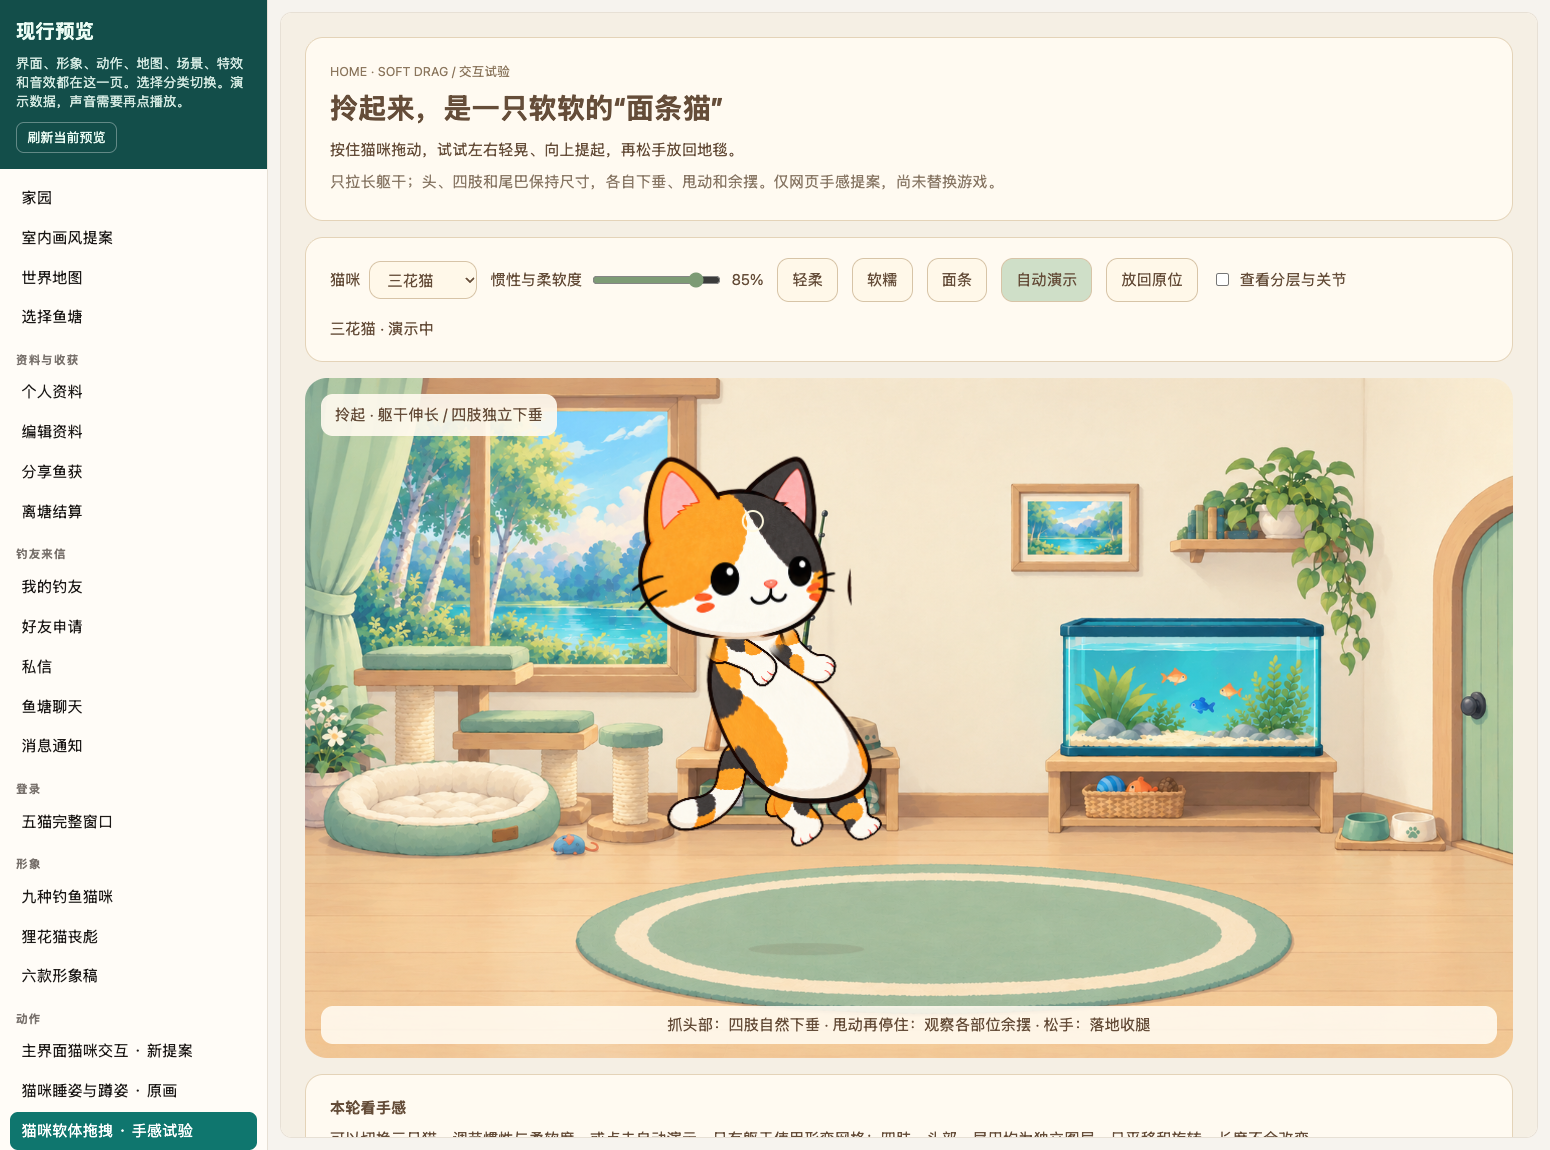
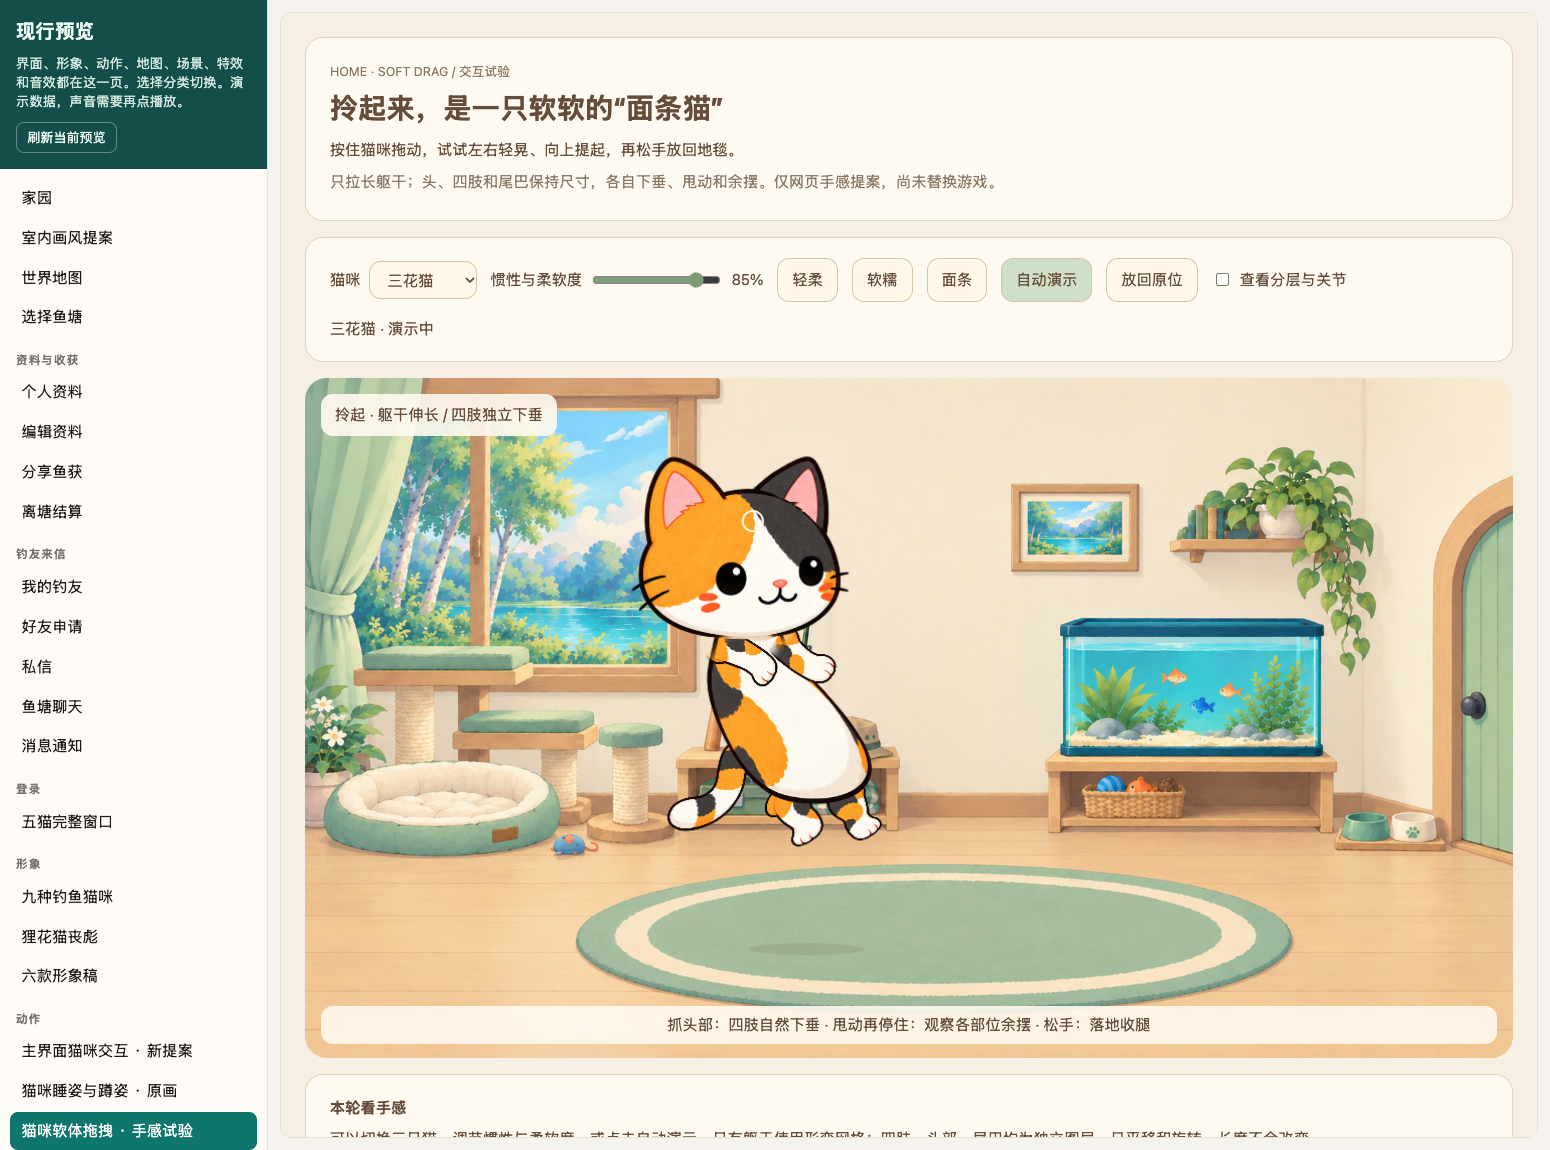
## 2026-10-31 — 软体拖拽拆层与视觉修正

Changed region(s): [[0.4026, 0.3957, 0.5574, 0.5478]]

diff --git a/docs/美术/家园/soft-drag-study-2026-10-31/drag-v2.js b/docs/美术/家园/soft-drag-study-2026-10-31/drag-v2.js
@@ -45,5 +45,5 @@ $('demo').onclick=()=>{if(!state.ready)return;reset();state.demo=0;const hit={id
 function demo(dt){if(state.demo===null)return;state.demo+=dt;const t=state.demo;if(t<1){const f=t*t*(3-2*t);state.cat.move(state.demoOrigin[0],state.demoOrigin[1]*(1-f)+160*f);}else if(t<4.5){const q=t-1;state.cat.move(630+Math.sin(q*3.4)*205,160+Math.sin(q*2.6)*25);}else if(t<6){state.cat.move(630+Math.sin(3.5*3.4)*205,160+Math.sin(3.5*2.6)*25);}else{state.cat.release();state.demo=null;}}
 function interrupt(){state.demo=null;release();accumulator=0;last=performance.now();}document.addEventListener('visibilitychange',interrupt);window.addEventListener('blur',interrupt);canvas.addEventListener('webglcontextlost',e=>{e.preventDefault();state.paused=true;release();$('status').textContent='图形中断，请刷新预览';});
 function tick(now){const dt=Math.min((now-last)/1000,.06);last=now;if(state.ready&&!document.hidden&&!state.paused){accumulator+=dt;while(accumulator>=1/120){demo(1/120);state.cat.step(1/120);accumulator-=1/120;}render();}requestAnimationFrame(tick);}
-(async()=>{try{initGL();await Promise.all(Object.keys(names).map(async k=>{art[k]=Object.fromEntries(await Promise.all(['torso',...Object.keys(partsSpec)].map(async id=>[id,makePart(await load(`layers-v2/${k}/${id}.png`))])));}));state.cat.soft=Number($('softness').value)/100;state.ready=true;render();requestAnimationFrame(tick);}catch(e){$('status').textContent=e.message;}})();
+(async()=>{try{initGL();await Promise.all(Object.keys(names).map(async k=>{art[k]=Object.fromEntries(await Promise.all(['torso',...Object.keys(partsSpec)].map(async id=>[id,makePart(await load(`layers-v2/${k}/${id}.png?v=joint-contact-2`))])));}));state.cat.soft=Number($('softness').value)/100;state.ready=true;render();requestAnimationFrame(tick);}catch(e){$('status').textContent=e.message;}})();
 window.softDragStudy={state,render,reset,pick,vertices,partsSpec};

diff --git a/CHANGELOG.md b/CHANGELOG.md
@@ -1,3 +1,9 @@
+## 2026-10-31 — 软体拖拽拆层与视觉修正
+
+- 总预览 `#home-soft-drag` 改为三只猫各七张独立部件；仅躯干伸长，头、四肢与尾巴保持尺寸，各自计算惯性和余摆。
+- 修正肩部拼接、悬空时后腿遮挡、脚掌接地和阴影位置；校正三花头部、蓝猫躯干混入邻近部件的切图范围。关节加速度不再受抓取校正反复反馈。
+- 三角色拖动、停止下垂、落地、取消及重置验证通过；本轮为网页试验，尚未接入 Unity / Overlay，效果待用户验收。
+
 ## 2026-10-31 — 猫咪软体拖拽手感预览
 
 - 总页新增 `#home-soft-drag`：橘猫、三花猫、英短蓝猫可抓取、提起、左右拖动并松手落地回弹；提供柔软程度、三档预设、自动演示、网格和重置。

diff --git a/docs/美术/家园/soft-drag-study-2026-10-31/README.md b/docs/美术/家园/soft-drag-study-2026-10-31/README.md
@@ -16,6 +16,7 @@
 
 - 缩短前肢，恢复坐姿的紧凑比例；前肢肩部使用局部透明过渡，避免完整圆形根部轮廓像贴片一样露在胸前。
 - 坐姿与悬空使用不同的肩/髋位置，并连续过渡。提起后后腿连接到躯干底端，避免被伸长的肚子完全遮住；四肢自身尺寸不变。
+- 校正三花头部和蓝猫躯干的图集裁切范围，排除相邻部件的描边/胡须；记录同步到 manifest。
 - 接地改用脚掌底部采样点，而非旋转图片的透明矩形边角；尾巴独立碰地，阴影随身体位置移动。
 - 关节惯性由拖动加速度和躯干摆动加速度驱动，避免抓取点校正又被算成下一步加速度的反馈；停止后逐渐回到下垂姿态。
 
